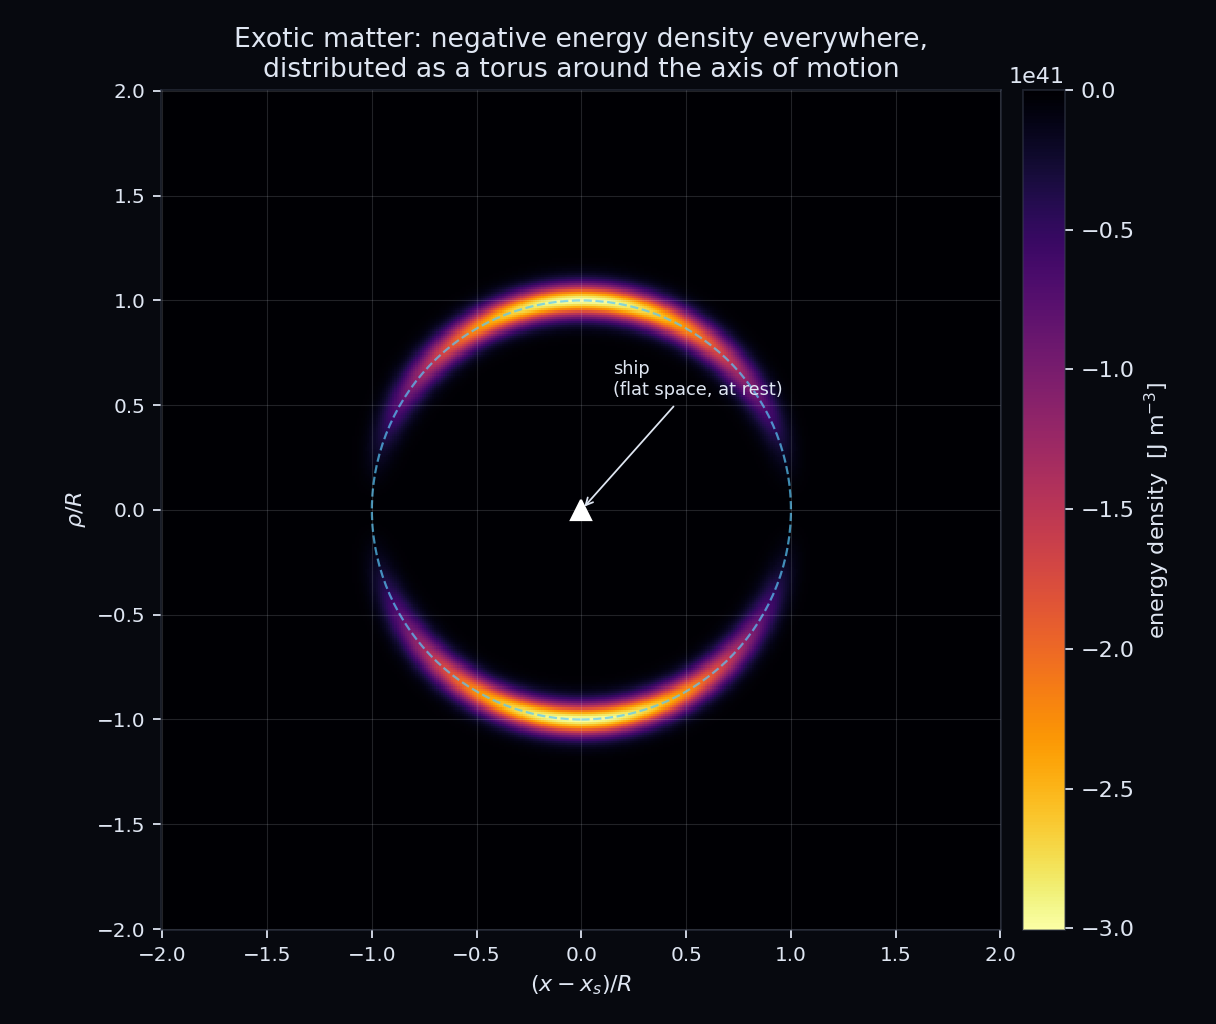
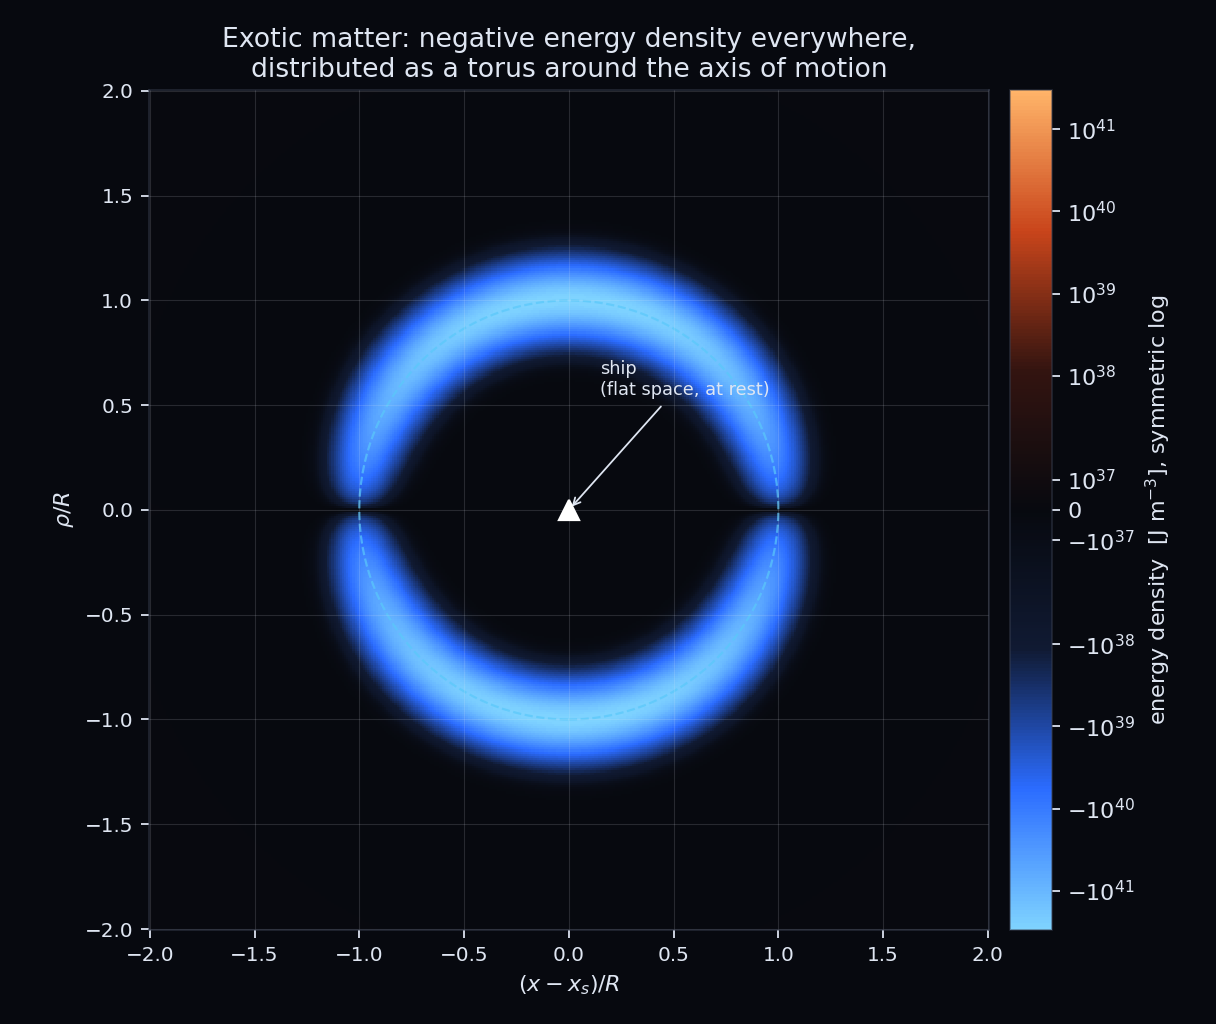
Make the static figures correct for any metric
Rendered for Van Den Broeck's bubble, the figures stated things that are
only true for Alcubierre's:

- the energy density map was titled 'negative everywhere' and used a
  one-sided colour scale, so the positive energy of the transition region
  took the colour of zero. It now uses the diverging bubble palette on a
  symmetric logarithmic scale, blue negative and red positive, and the
  title is chosen from the sign of the data;
- the 3D shell sampled points by |eps|, drawing positive energy as exotic
  matter. It now samples by the negative part only;
- the shape function figure did not show B. A third panel draws it when
  the metric has a non-trivial conformal factor, and the legend is sorted
  by sigma R with the metric's own wall drawn solid.

For Alcubierre the expansion and shell figures are bit-identical to the
ones in docs/assets; the energy density asset is regenerated with the new
colour scale.

Smoke tests render every figure for both metrics, and the colour scale
and title helpers are tested on their own.

diff --git a/src/warpdrive/viz/figures.py b/src/warpdrive/viz/figures.py
@@ -14,25 +14,74 @@ import os
 # --- Third-party imports ---
 import matplotlib.pyplot as plt
 import numpy as np
+from matplotlib.colors import SymLogNorm
 
 # --- Local imports ---
 from ..shapes import tanh_top_hat, tanh_top_hat_derivative
-from .style import ACCENT, BG, FG, dark_axes, dark_figure, save, style_colorbar
+from .style import (
+    ACCENT,
+    BG,
+    FG,
+    bubble_colormap,
+    dark_axes,
+    dark_figure,
+    save,
+    style_colorbar,
+)
+
+
+def energy_norm(eps, decades=4):
+    """
+    Symmetric logarithmic colour scale for an energy density map.
+
+    Linear within `decades` orders of magnitude of the largest |eps| and
+    logarithmic beyond, identical for both signs, so a positive region
+    many times weaker than the negative one still shows, and two maps
+    passed the same norm share one colour scale.
+    """
+
+    peak = float(np.max(np.abs(eps)))
+    if peak == 0.0:
+        peak = 1.0
+    return SymLogNorm(linthresh=peak * 10.0 ** (-decades), vmin=-peak,
+                      vmax=peak, base=10)
+
+
+def energy_title(eps):
+    """Describe the sign content of a density map from the data itself."""
+
+    if np.max(eps) <= 0.0:
+        return ("Exotic matter: negative energy density everywhere,\n"
+                "distributed as a torus around the axis of motion")
+    return ("Energy density: negative (blue) and positive (red),\n"
+            "the weak energy condition is violated where it is blue")
 
 
 def plot_shape_function(metric, path, sigmas=(0.05, None, 0.4)):
     """
-    The shape function and its derivative, for a few wall thicknesses.
+    The shape function and its derivative, for a few wall thicknesses,
+    plus the conformal factor B(r_s) when the metric has a non-trivial
+    one.
 
-    Passing None inside `sigmas` substitutes the metric's own value.
+    Passing None inside `sigmas` substitutes the metric's own value, which
+    is drawn solid.
     """
 
-    sigmas = [metric.sigma if s is None else s for s in sigmas]
+    own = metric.sigma
+    sigmas = sorted({own if s is None else s for s in sigmas})
     r = np.linspace(0.0, 2.5 * metric.radius, 2000)
 
-    fig, (ax1, ax2) = dark_figure(2, 1, figsize=(7.5, 6.5), sharex=True)
+    conformal = np.asarray(metric.conformal_factor(r, 0.0, 0.0), dtype=float)
+    inflated = not np.all(conformal == 1.0)
 
-    for sigma, dashes in zip(sigmas, ["--", "-", ":"]):
+    fig, axes = dark_figure(3 if inflated else 2, 1,
+                            figsize=(7.5, 9.0 if inflated else 6.5),
+                            sharex=True)
+    ax1, ax2 = axes[0], axes[1]
+
+    others = iter(["--", ":", "-."])
+    for sigma in sigmas:
+        dashes = "-" if sigma == own else next(others)
         ax1.plot(r / metric.radius, tanh_top_hat(r, metric.radius, sigma),
                  dashes, lw=2.0,
                  label=rf"$\sigma R$ = {sigma * metric.radius:.0f}")
@@ -41,13 +90,20 @@ def plot_shape_function(metric, path, sigmas=(0.05, None, 0.4)):
                  * metric.radius,
                  dashes, lw=2.0)
 
-    for ax in (ax1, ax2):
+    ax1.set_ylabel(r"$f(r_s)$")
+    ax2.set_ylabel(r"$R\,\mathrm{d}f/\mathrm{d}r_s$")
+
+    if inflated:
+        ax3 = axes[2]
+        ax3.plot(r / metric.radius, conformal, color=ACCENT, lw=2.0)
+        ax3.set_yscale("log")
+        ax3.set_ylabel(r"$B(r_s)$")
+
+    for ax in axes:
         ax.axvline(1.0, color="#ff9f43", lw=1.0, alpha=0.6)
         dark_axes(ax)
 
-    ax1.set_ylabel(r"$f(r_s)$")
-    ax2.set_ylabel(r"$R\,\mathrm{d}f/\mathrm{d}r_s$")
-    ax2.set_xlabel(r"$r_s / R$")
+    axes[-1].set_xlabel(r"$r_s / R$")
     ax1.set_title("Shape function: flat inside, flat outside,\n"
                   "all the curvature squeezed into the wall")
 
@@ -88,10 +144,13 @@ def plot_expansion_scalar(metric, path, extent=2.0, resolution=220):
 
 def plot_energy_density(metric, path, extent=2.0, resolution=400):
     """
-    The exotic matter distribution in the meridional plane.
+    The energy density in the meridional plane, on a symmetric
+    logarithmic colour scale: blue where it is negative, red where it is
+    positive, dark where it vanishes.
 
-    Negative everywhere it is non-zero, and vanishing on the axis: a
-    torus wrapped around the direction of motion.
+    For Alcubierre it is negative everywhere it is non-zero and vanishes
+    on the axis: a torus wrapped around the direction of motion. A
+    conformal factor adds a shell carrying both signs.
     """
 
     span = extent * metric.radius
@@ -101,9 +160,10 @@ def plot_energy_density(metric, path, extent=2.0, resolution=400):
 
     fig, ax = dark_figure(figsize=(7.6, 6.4))
     mesh = ax.pcolormesh(X / metric.radius, RHO / metric.radius, eps,
-                         cmap="inferno_r", shading="auto")
+                         cmap=bubble_colormap(),
+                         norm=energy_norm(eps), shading="auto")
     style_colorbar(fig.colorbar(mesh, ax=ax, pad=0.02),
-                   r"energy density  [J m$^{-3}$]")
+                   r"energy density  [J m$^{-3}$], symmetric log")
 
     ax.add_patch(plt.Circle((0, 0), 1.0, fill=False, color=ACCENT, lw=1.0,
                             ls="--", alpha=0.7))
@@ -114,8 +174,7 @@ def plot_energy_density(metric, path, extent=2.0, resolution=400):
 
     ax.set_xlabel(r"$(x - x_s)/R$")
     ax.set_ylabel(r"$\rho / R$")
-    ax.set_title("Exotic matter: negative energy density everywhere,\n"
-                 "distributed as a torus around the axis of motion")
+    ax.set_title(energy_title(eps))
     ax.set_aspect("equal")
     dark_axes(ax)
 
@@ -127,18 +186,19 @@ def plot_shell_3d(metric, path, n_samples=400000, seed=42):
     """
     Monte-Carlo rendering of the exotic-matter shell.
 
-    Points are accepted with a probability proportional to |eps|, so the
-    visual density of the cloud is the physical density of negative
-    energy. The IXS-style twin rings are drawn where that matter has to
+    Points are accepted with a probability proportional to the negative
+    part of eps, so the visual density of the cloud is the physical
+    density of negative energy; positive energy, where a metric has any,
+    is not drawn. The IXS-style twin rings are drawn where that matter has to
     be held.
     """
 
     rng = np.random.default_rng(seed)
     span = 1.6 * metric.radius
     points = rng.uniform(-span, span, size=(n_samples, 3))
-    eps = np.abs(metric.energy_density(points[:, 0], points[:, 1],
-                                       points[:, 2]))
-    weight = eps / eps.max()
+    exotic = np.maximum(-metric.energy_density(points[:, 0], points[:, 1],
+                                               points[:, 2]), 0.0)
+    weight = exotic / max(float(exotic.max()), np.finfo(float).tiny)
 
     keep = rng.random(len(weight)) < weight
     points, weight = points[keep], weight[keep]

diff --git a/tests/test_viz.py b/tests/test_viz.py
@@ -1,0 +1,47 @@
+# ==========================================================
+# Tests for the figures
+#
+# Smoke tests that every figure renders for both metrics, plus the two
+# helpers that decide what an energy density map says about its sign.
+#
+# Author: Lorenzo Monti
+# ==========================================================
+
+import matplotlib
+
+matplotlib.use("Agg")
+
+import numpy as np                                          # noqa: E402
+import pytest                                               # noqa: E402
+
+from warpdrive import AlcubierreMetric, BroeckMetric        # noqa: E402
+from warpdrive.constants import C_LIGHT                     # noqa: E402
+from warpdrive.viz import plot_all                          # noqa: E402
+from warpdrive.viz.figures import energy_norm, energy_title  # noqa: E402
+
+
+def test_energy_norm_is_symmetric():
+    norm = energy_norm(np.array([-5.0, 0.0, 2.0]))
+
+    assert norm.vmin == -5.0
+    assert norm.vmax == 5.0
+    assert norm(0.0) == pytest.approx(0.5)
+    assert norm(-1.0) == pytest.approx(1.0 - norm(1.0))
+
+
+def test_energy_title_follows_the_sign_of_the_data():
+    assert "negative energy density everywhere" in energy_title(
+        np.array([-1.0, 0.0]))
+    assert "positive" in energy_title(np.array([-1.0, 1.0e-6]))
+
+
+@pytest.mark.parametrize("metric", [
+    AlcubierreMetric(speed=10.0 * C_LIGHT),
+    BroeckMetric(speed=10.0 * C_LIGHT),
+], ids=["alcubierre", "broeck"])
+def test_static_figures_render(metric, tmp_path):
+    paths = plot_all(metric, str(tmp_path))
+
+    assert len(paths) == 4
+    for path in paths:
+        assert (tmp_path / path.split("/")[-1]).stat().st_size > 10_000
